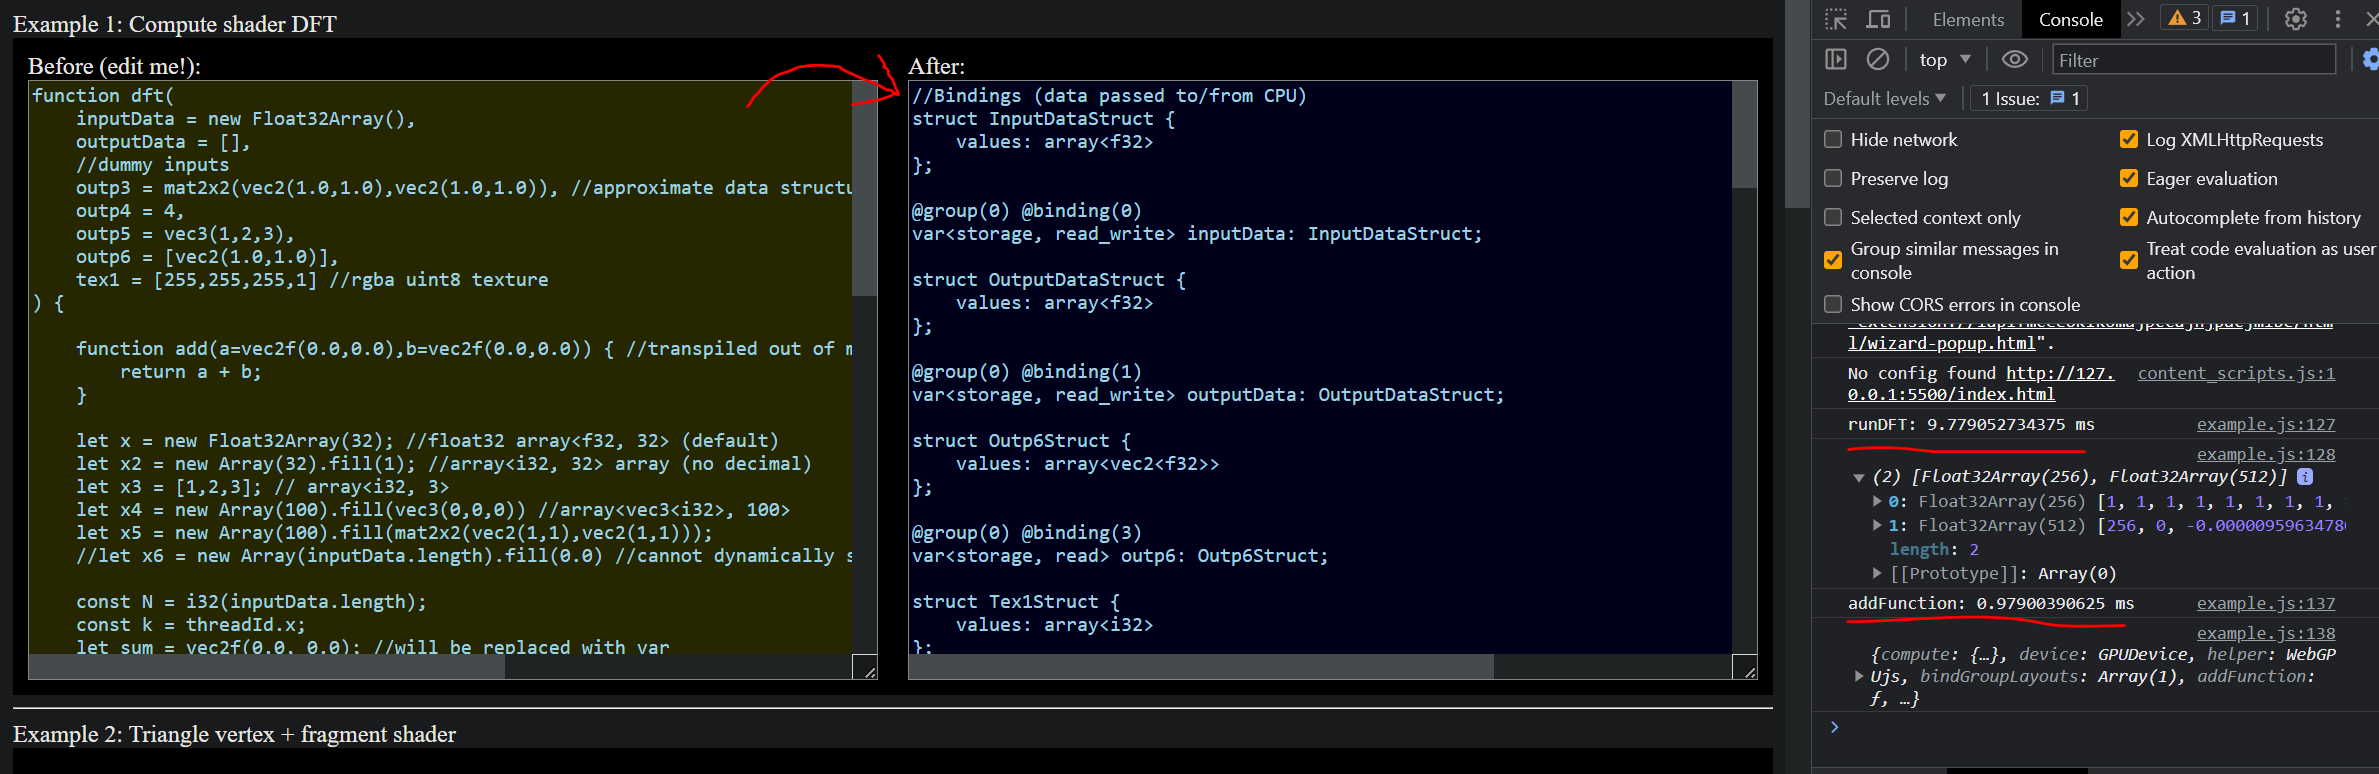
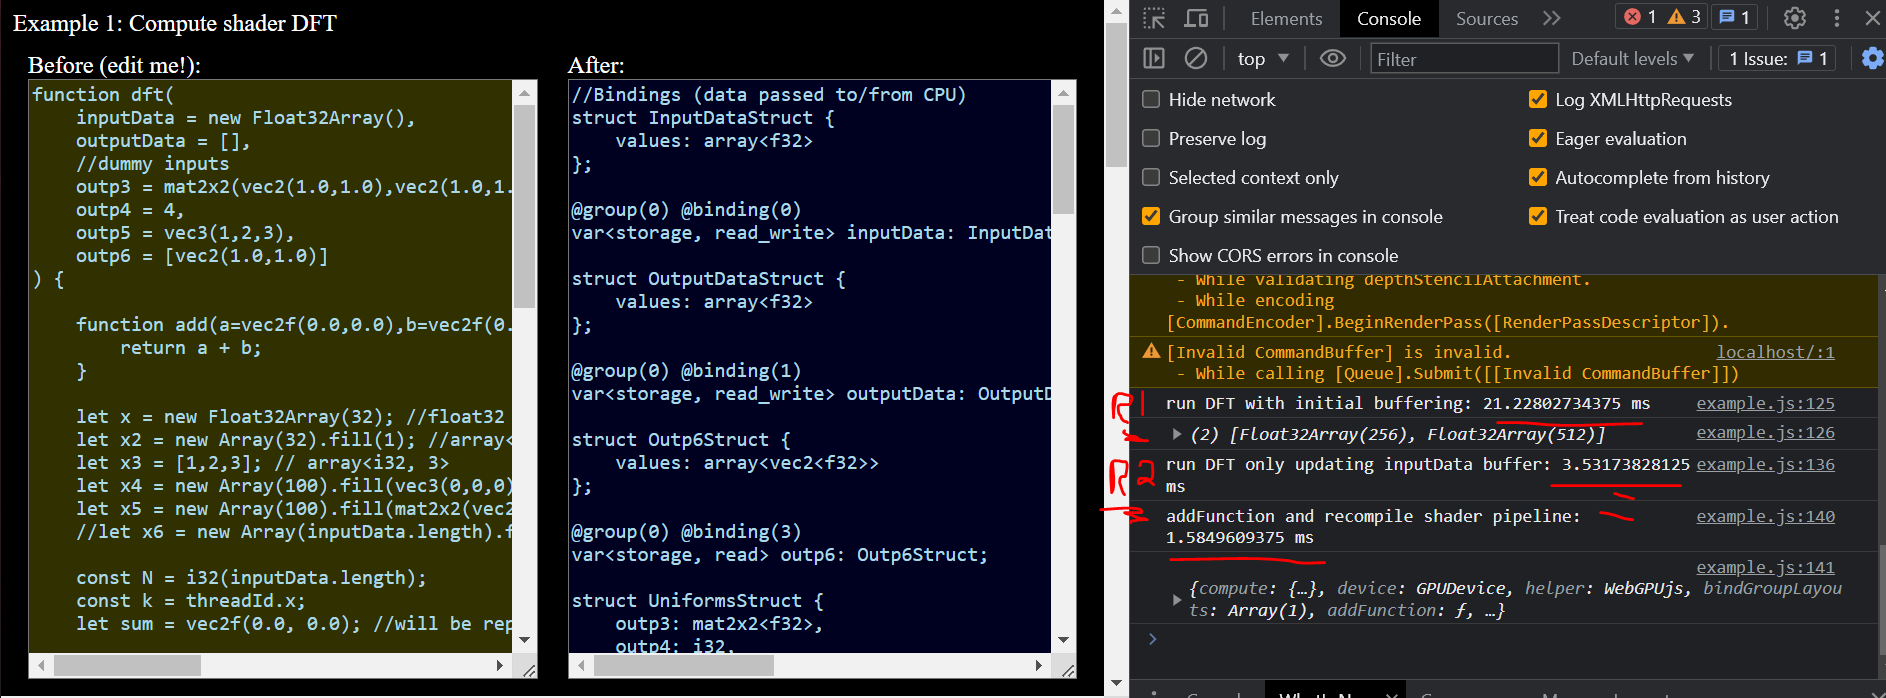
update screenshot/example

diff --git a/webgpujs.js b/webgpujs.js
@@ -528,10 +528,6 @@ fn frag_main(
     
     updateVBO(shaders, vertices, index, bufferOffset=0, dataOffset=0) { //update
         
-        function isTypedArray(x) { //https://stackoverflow.com/a/40319428
-            return (ArrayBuffer.isView(x) && Object.prototype.toString.call(x) !== "[object DataView]");
-        }
-
         if(vertices) {
             // 4: Create vertex buffer to contain vertex data]
         
@@ -653,9 +649,6 @@ fn frag_main(
         let result = [];
         for (let i = 0; i < arr.length; i++) {
             if (Array.isArray(arr[i])) {
-                function isTypedArray(x) { //https://stackoverflow.com/a/40319428
-                    return (ArrayBuffer.isView(x) && Object.prototype.toString.call(x) !== "[object DataView]");
-                }
                 result = result.concat(this.flattenArray(isTypedArray(arr[i]) ? Array.from(arr[i]) : arr[i]));
             } else {
                 result.push(arr[i]);
@@ -796,7 +789,8 @@ fn frag_main(
             const vecSize = typeInfo.size / 4;
             for (let j = 0; j < vecSize; j++) {
                 //console.log(dataView,offset + j * 4)
-                dataView.setFloat32(offset + j * 4, input[j], true);
+                if(inputTypes[i].type.includes('f')) dataView.setFloat32(offset + j * 4, input[j], true);
+                else dataView.setInt32(offset + j * 4, input[j], true);
             }
         } else if (inputTypes[i].type.startsWith('mat')) {
             const flatMatrix = typeof input[0] === 'object' ? this.flattenArray(input) : input;
@@ -841,7 +835,6 @@ fn frag_main(
             // Use a DataView to set values at specific byte offsets
             const dataView = new DataView(this.uniformBuffer.getMappedRange()); //little endian
     
-
             let offset = 0; // Initialize the offset
 
             this.params.forEach((node, i) => {
@@ -860,35 +853,15 @@ fn frag_main(
 
         if(this.defaultUniforms) { //update built-in uniforms (you can add whatever you want to the builtInUniforms list)
 
-            function isTypedArray(x) { //https://stackoverflow.com/a/40319428
-                return (ArrayBuffer.isView(x) && Object.prototype.toString.call(x) !== "[object DataView]");
-            }
-
             let values = [];
-            let totalUniformBufferSize = 0;
-            this.defaultUniforms.forEach((u) => {
-                const typeInfo = wgslTypeSizes[u];
+            this.defaultUniforms.forEach((u) => { 
                 let value = this.builtInUniforms[u]?.callback();
-                if(Array.isArray(value)) {
-                    if(!isTypedArray(value)) value = new Float32Array(value);
-                    if(!this.defaultUniformBuffer) totalUniformBufferSize += value.byteLength;
-                } else if(!this.defaultUniformBuffer) totalUniformBufferSize += 4; //assume 4 bytes per float/int (32 bit)
                 values.push(value);
             });
 
-            if(!this.defaultUniformBuffer) {
-                this.defaultUniformBuffer = this.uniformBuffer = this.device.createBuffer({
-                    size: totalUniformBufferSize, // This should be the sum of byte sizes of all uniforms
-                    usage: GPUBufferUsage.UNIFORM  | GPUBufferUsage.COPY_SRC,
-                    mappedAtCreation: true
-                });
-                this.bufferGroup.defaultUniformBuffer = this.defaultUniformBuffer;
-                
-            }
-
             // Use a DataView to set values at specific byte offsets
             const dataView = new DataView(this.defaultUniformBuffer.getMappedRange()); //little endian
-
+            console.log(this.defaultUniformBuffer,dataView);
             let offset = 0; // Initialize the offset
 
             values.forEach((v,i) => {
@@ -898,7 +871,6 @@ fn frag_main(
             })
 
             this.defaultUniformBuffer.unmap();
-            this.defaultUniformBinding = this.inputBuffers.length; //latest binding in series
         }
     }
 
@@ -1018,9 +990,11 @@ fn frag_main(
                                 }
                             }); 
 
-                            totalUniformBufferSize -= totalUniformBufferSize % 16; //correct final buffer size (IDK)
+                            if(totalUniformBufferSize < 8) totalUniformBufferSize += 8 - totalUniformBufferSize; 
+                            else totalUniformBufferSize -= totalUniformBufferSize % 16; //correct final buffer size (IDK)
                             
                             this.uniformBuffer = this.device.createBuffer({
+                                label:'uniform buffer',
                                 size: totalUniformBufferSize ? totalUniformBufferSize : 4, // This should be the sum of byte sizes of all uniforms
                                 usage: GPUBufferUsage.UNIFORM  | GPUBufferUsage.COPY_SRC,
                                 mappedAtCreation: true
@@ -1066,13 +1040,44 @@ fn frag_main(
                 }
             });
 
-        
+            
+            if(this.defaultUniforms && !this.defaultUniformBuffer) {
+                
+                let totalUniformBufferSize = 0;
+                this.defaultUniforms.forEach((u) => {
+                    if(!this.builtInUniforms[u]) return;
+                    let value = this.builtInUniforms[u].callback();
+                    if(Array.isArray(value)) {
+                        if(!isTypedArray(value)) value = new Float32Array(value);
+                        if(!this.defaultUniformBuffer) totalUniformBufferSize += value.byteLength;
+                    } else if(!this.defaultUniformBuffer) totalUniformBufferSize += 4; //assume 4 bytes per float/int (32 bit)
+                });
+
+                if(totalUniformBufferSize < 8) totalUniformBufferSize += 8 - totalUniformBufferSize; 
+                else totalUniformBufferSize -= totalUniformBufferSize % 16;                            //correct final buffer size (IDK)
+
+                this.defaultUniformBuffer = this.device.createBuffer({
+                    label:'default uniforms',
+                    size: totalUniformBufferSize, // This should be the sum of byte sizes of all uniforms
+                    usage: GPUBufferUsage.UNIFORM  | GPUBufferUsage.COPY_SRC,
+                    mappedAtCreation: true
+                });
+
+                if(this.defaultUniformBinding)
+                    this.inputBuffers[this.defaultUniformBinding] = this.defaultUniformBuffer;
+                else {
+                    this.defaultUniformBinding = this.inputBuffers.length; //latest binding in series
+                }
+                this.bufferGroup.defaultUniformBuffer = this.defaultUniformBuffer;
+            }
+
             //run the buffer() call now for each group tied to each shader based on load order
             bindGroupAlts.forEach((inp,i) => {
                 if(inp) {
                     let groupOwner = Object.entries(shaders).find((obj) => {
                         if(obj.bindGroupNumber === i) {
-                            obj.buffer({vbos,textures,samplerSettings},shaders,...inp);
+                            obj.buffer({vbos,textures,samplerSettings},...inp);
+                            return true;
                         }
                     });
                 }  
@@ -2129,6 +2134,11 @@ fn frag_main(
         return {code:webGPUCode.code, bindings, ast, params:webGPUCode.params, funcStr, defaultUniforms:webGPUCode.defaultUniforms};
     }
 
+}
+
+         
+function isTypedArray(x) { //https://stackoverflow.com/a/40319428
+    return (ArrayBuffer.isView(x) && Object.prototype.toString.call(x) !== "[object DataView]");
 }
 
 function capitalizeFirstLetter(string) {

diff --git a/example.js b/example.js
@@ -8,8 +8,7 @@ function dft(
     outp3 = mat2x2(vec2(1.0,1.0),vec2(1.0,1.0)), //approximate data structure wrappers will infer float or int from decimal usage
     outp4 = 4,
     outp5 = vec3(1,2,3),
-    outp6 = [vec2(1.0,1.0)],
-    tex1 = [255,255,255,1] //rgba uint8 texture
+    outp6 = [vec2(1.0,1.0)]
 ) {
 
     function add(a=vec2f(0.0,0.0),b=vec2f(0.0,0.0)) { //transpiled out of main body
@@ -29,7 +28,6 @@ function dft(
 
     var sum2 = add(sum,sum);
 
-    let y = resX;
 
     const b = 3 + outp4;
 
@@ -118,26 +116,34 @@ WebGPUjs.createPipeline(dft).then(pipeline => {
     // Create some sample input data
     const len = 256;
     const inputData = new Float32Array(len).fill(1.0); // Example data
-    const outputData = new Float32Array(len*2).fill(0); //only need to upload once
+    const outputData = new Float32Array(len*2).fill(0); //only need to upload once if len is the same, dfts return real and imag for single vectors (unless we convert gpu-side)
     //console.log(pipeline);
     // Run the process method to execute the shader
     
-    console.time('runDFT');
+    console.time('run DFT with initial buffering');
     pipeline.process(inputData,outputData).then(result => {
-        console.timeEnd('runDFT');
+        console.timeEnd('run DFT with initial buffering');
         console.log(result); // Log the output
-        if(result[2]?.buffer) { //we returned the uniform buffer for some reason, double check alignments
-            console.log(
-                new DataView(result[2].buffer).getInt32(16,true) // the int32 is still correctly encoded
-            )
-        }
+        // if(result[2]?.buffer) { //we returned the uniform buffer for some reason, double check alignments
+        //     console.log(
+        //         new DataView(result[2].buffer).getInt32(16,true) // the int32 is still correctly encoded
+        //     )
+        // }
 
-        console.time('addFunction');
-        pipeline.addFunction(function mul(a=vec2f(2,0),b=vec2f(2,0)) { return a * b; }).then((p) => {
-            console.timeEnd('addFunction');
-            console.log(p);
-            document.getElementById('t1_'+ex1Id).value = p.compute.code;
-        });
+        const inputData2 = new Float32Array(len).fill(2.0); // Example data, same length so outputData can be the same
+        console.time('run DFT only updating inputData buffer');
+        pipeline.process(inputData2,outputData).then(() => {
+            console.timeEnd('run DFT only updating inputData buffer');
+
+            console.time('addFunction and recompile shader pipeline');
+            pipeline.addFunction(function mul(a=vec2f(2,0),b=vec2f(2,0)) { return a * b; }).then((p) => {
+                console.timeEnd('addFunction and recompile shader pipeline');
+                console.log(p);
+                document.getElementById('t1_'+ex1Id).value = p.compute.code;
+    
+            });
+        })
+
 
     });
 });
